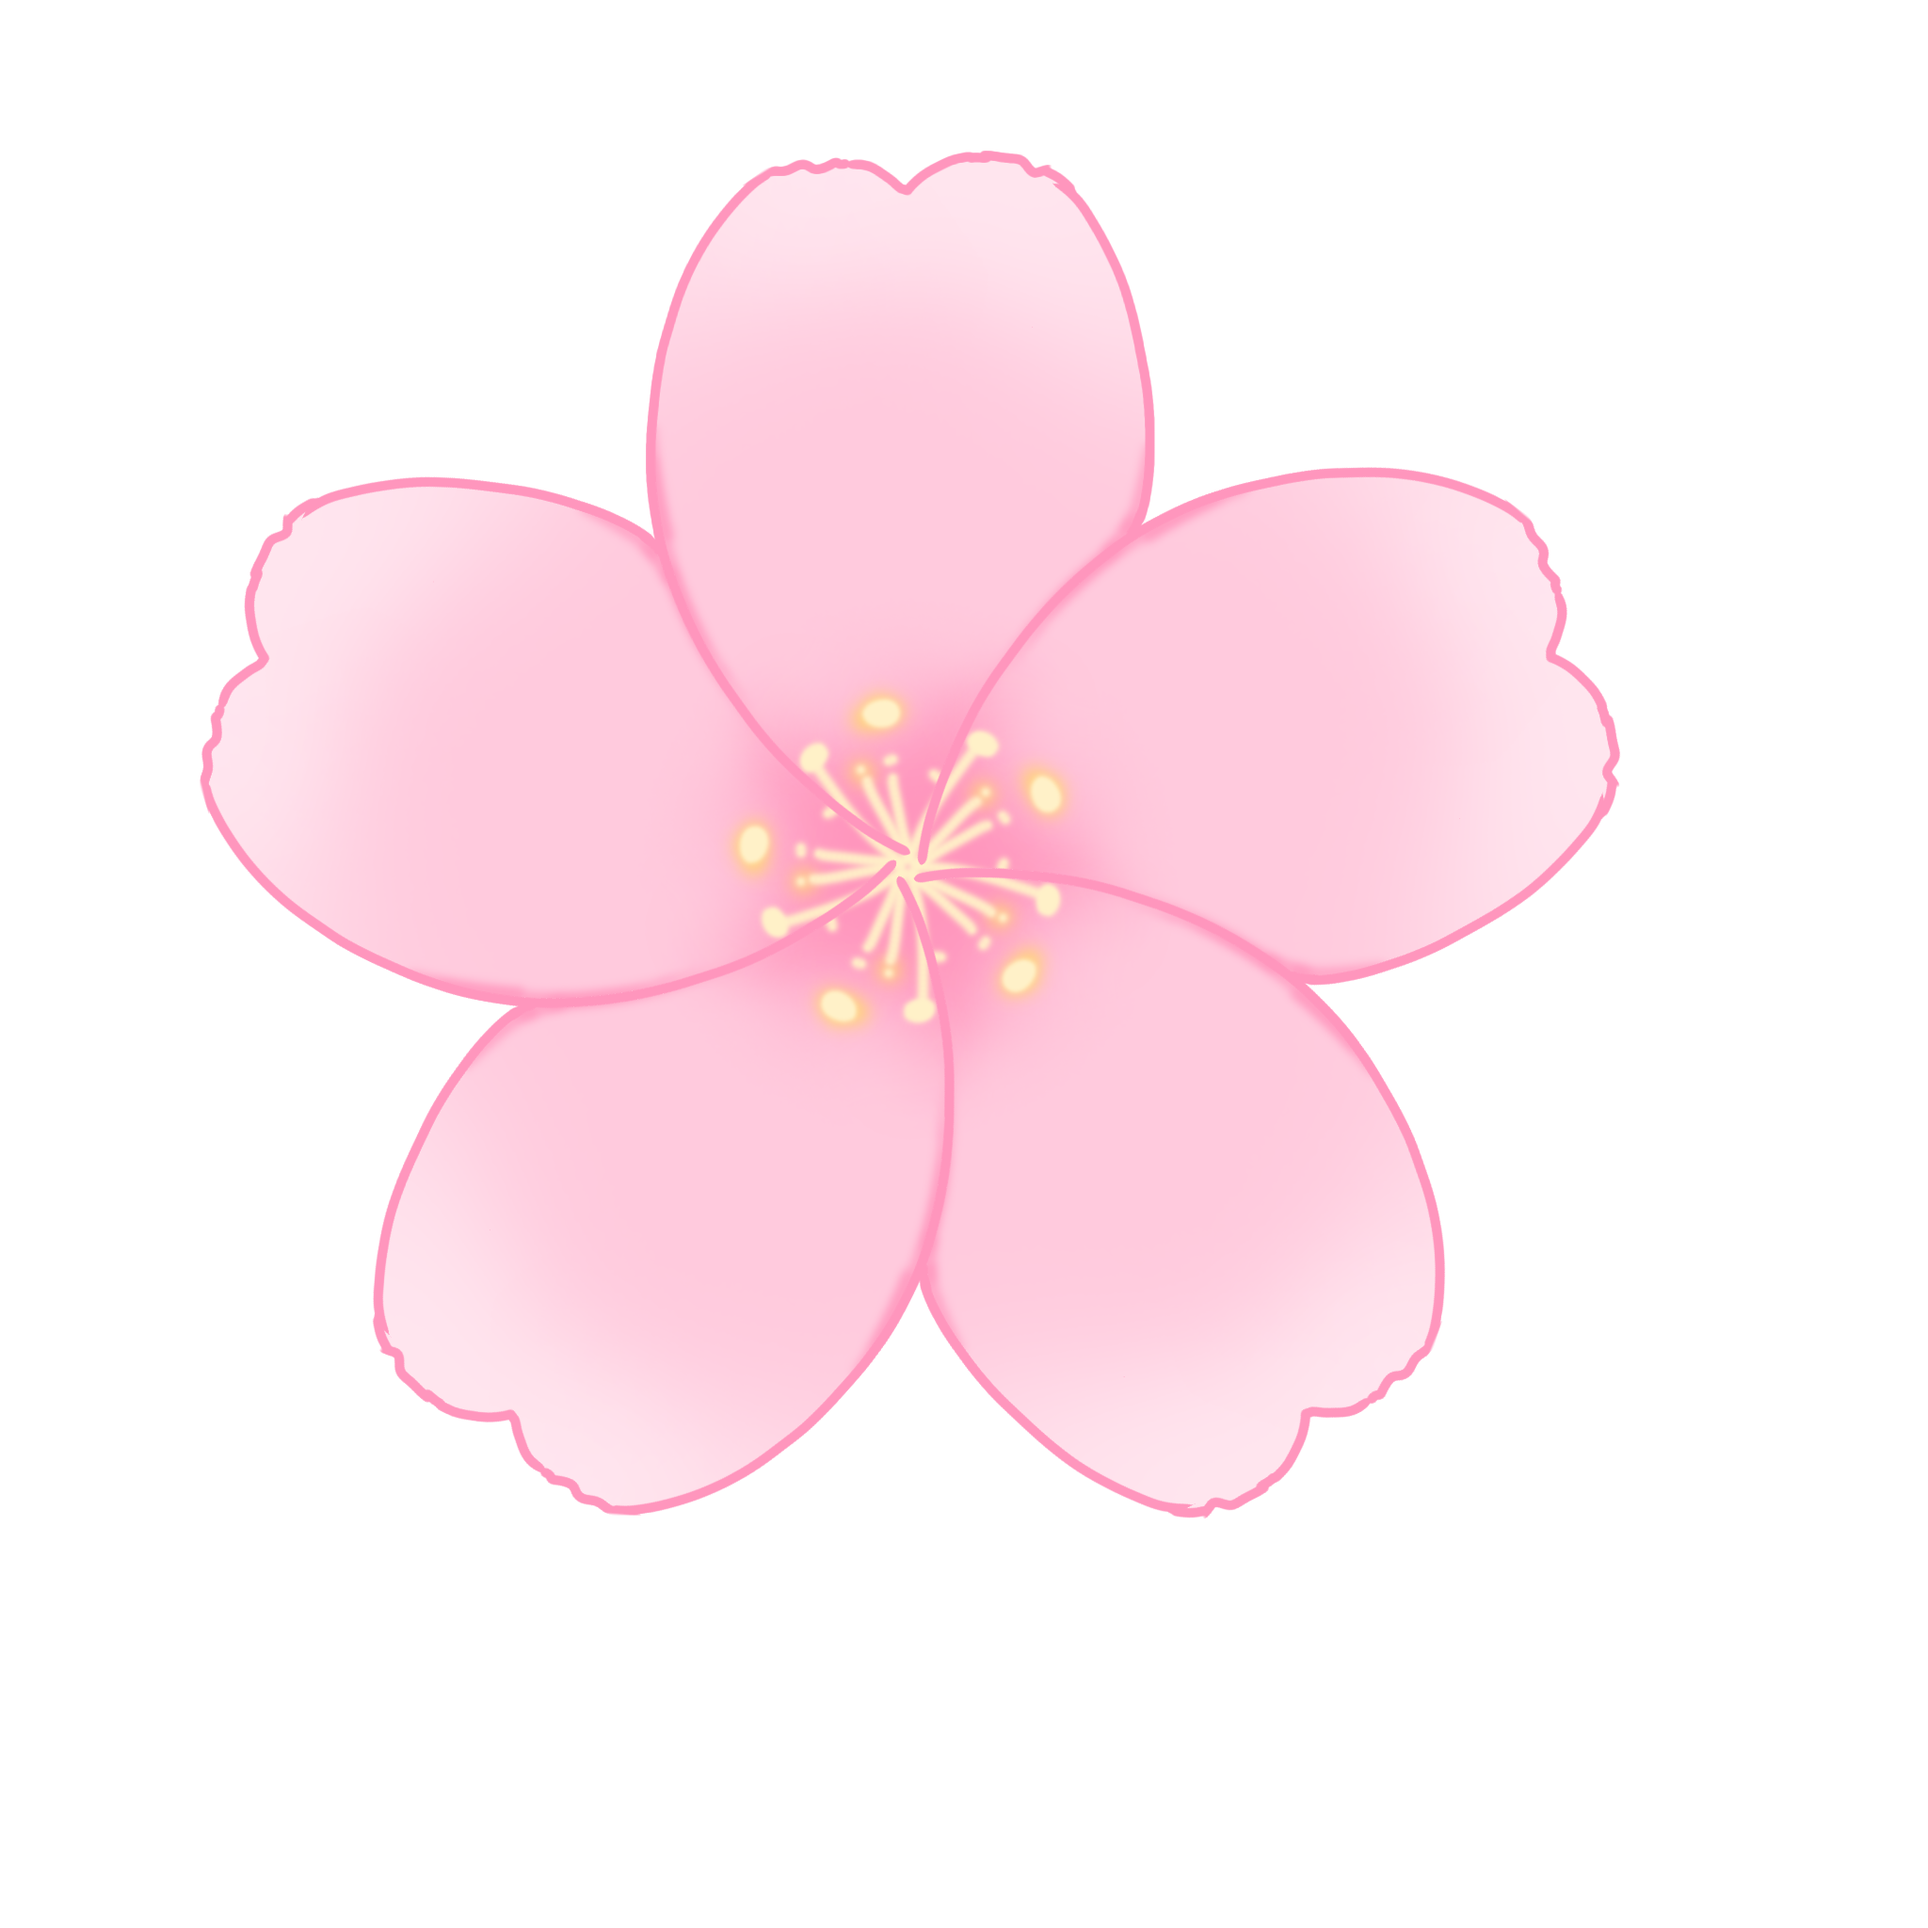
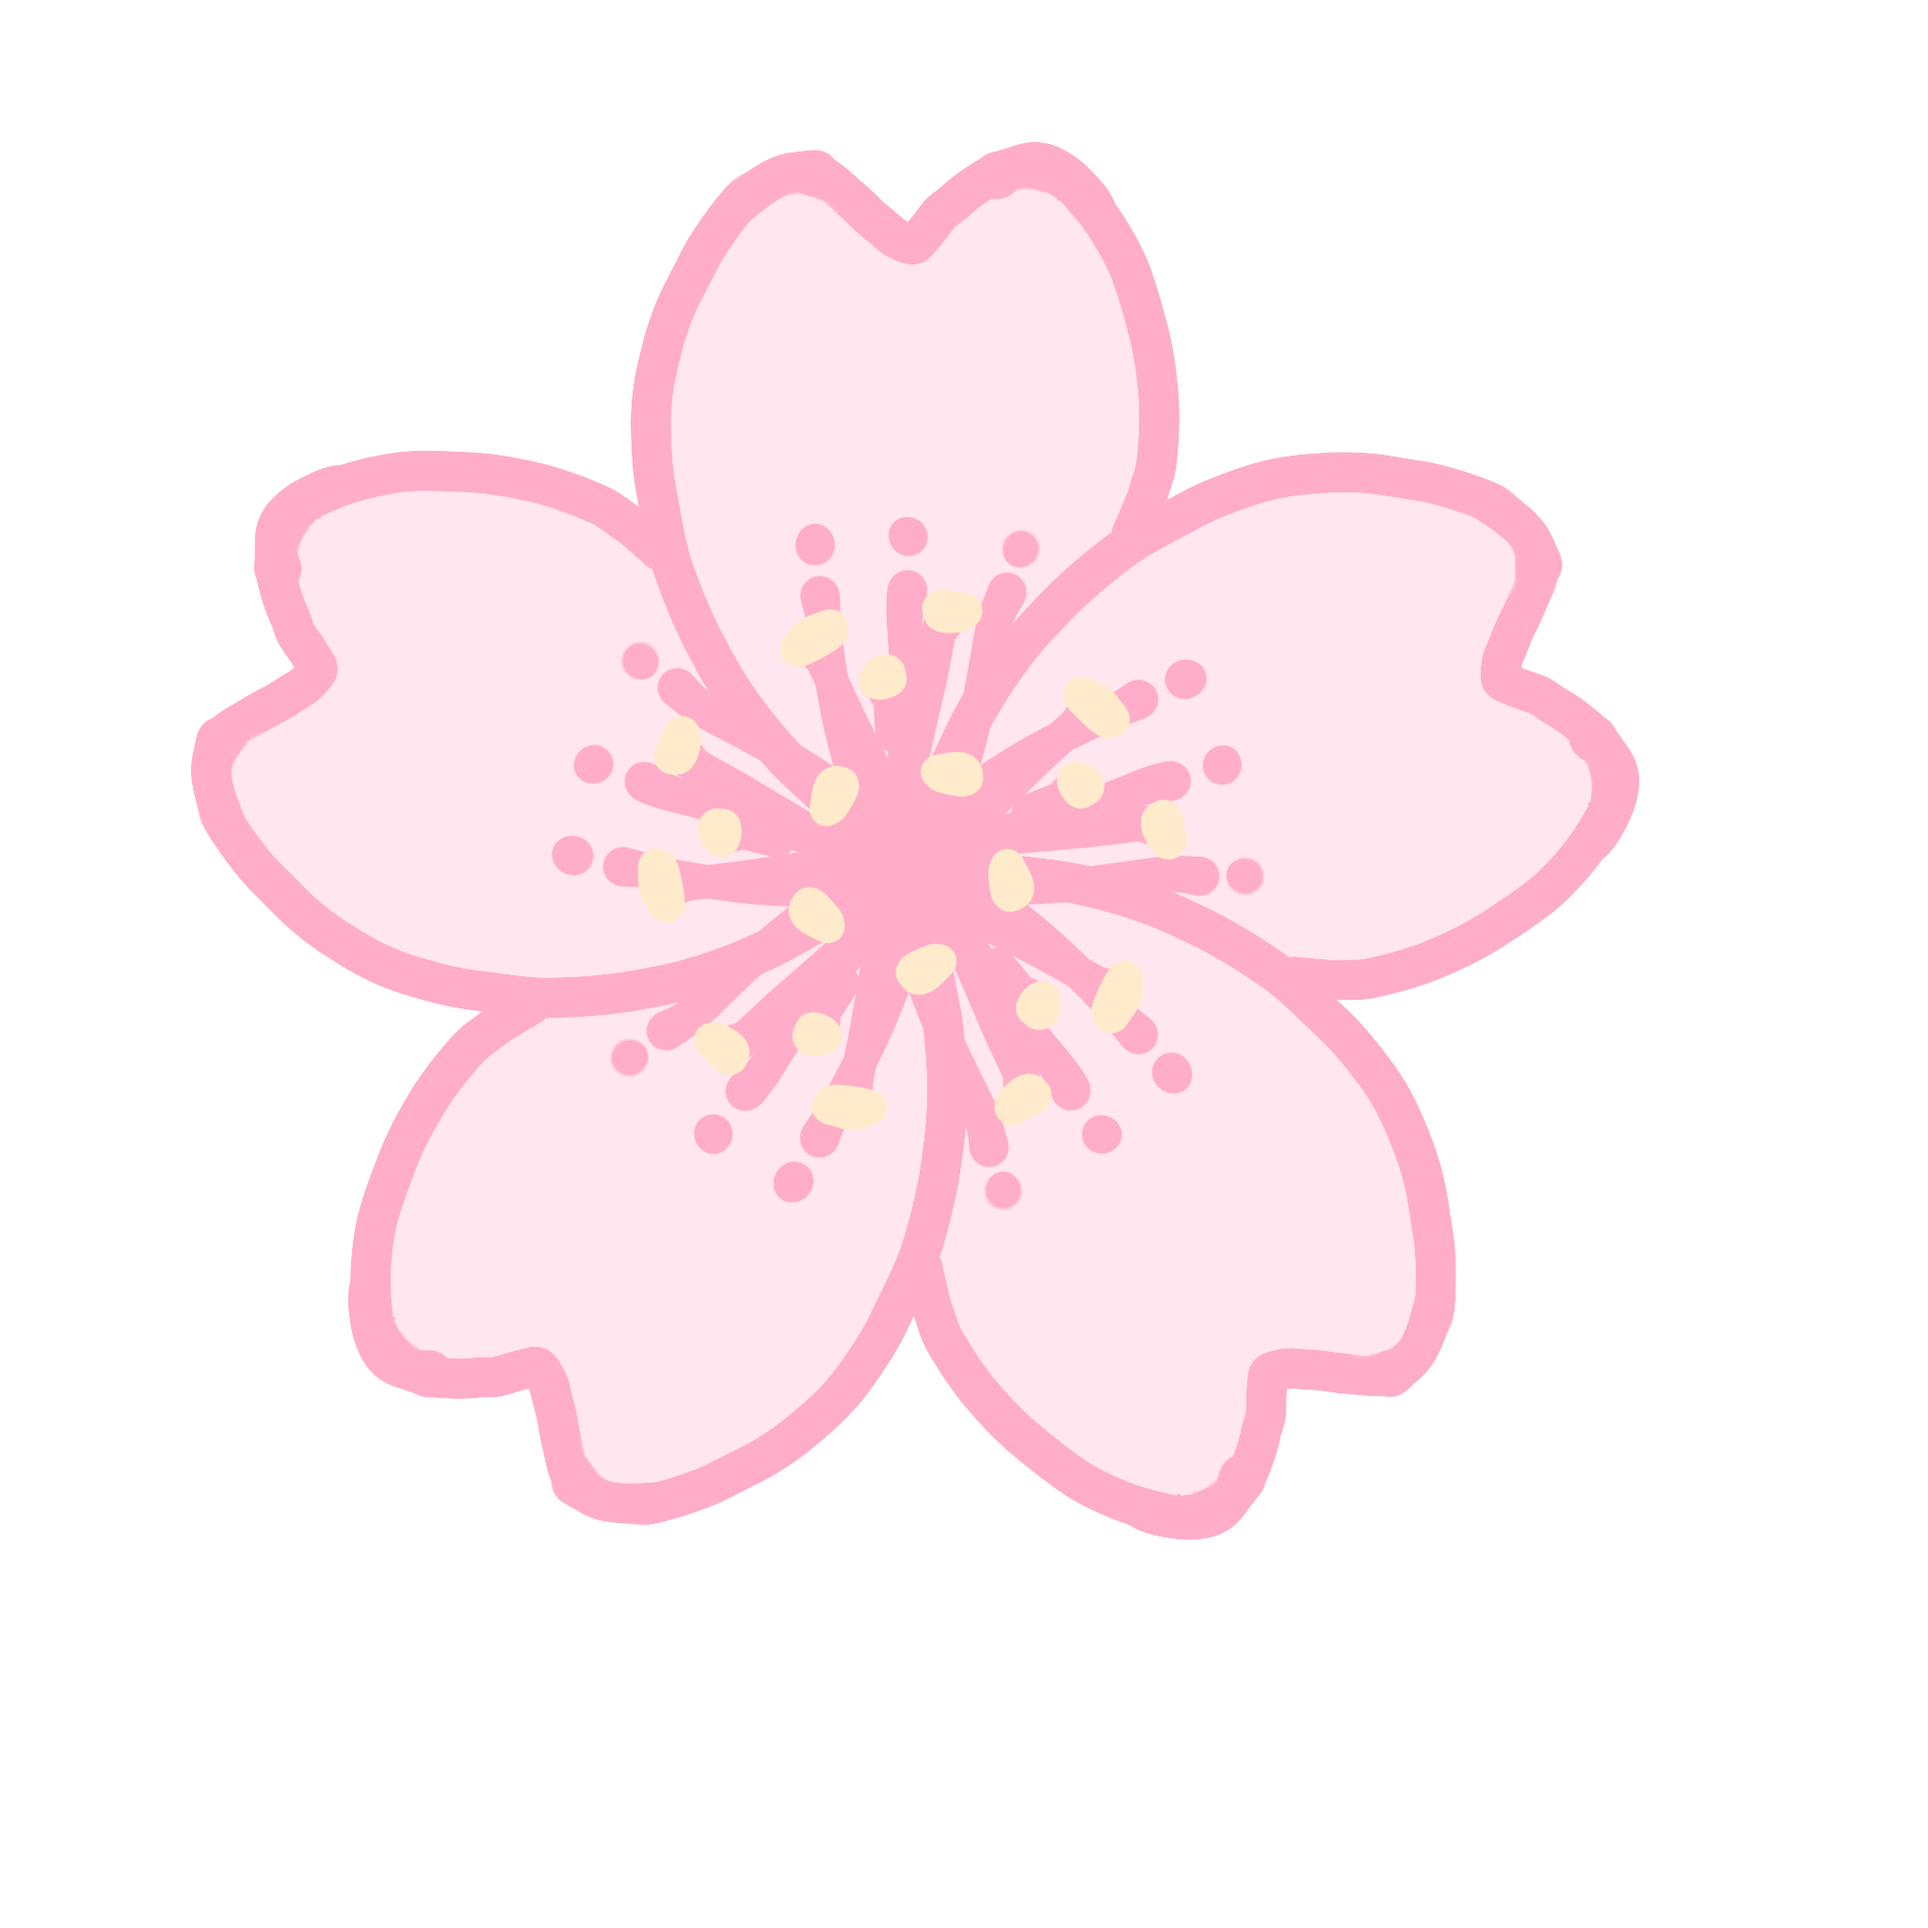
new cherryblossom

Changed region(s): [[0.0938, 0.0625, 0.8438, 0.8125]]

diff --git a/PLATea/src/components/cherry-blossom-border.tsx b/PLATea/src/components/cherry-blossom-border.tsx
@@ -1,8 +1,8 @@
 import React, { useState } from 'react';
 import { Image, View, StyleSheet, LayoutChangeEvent } from 'react-native';
 
-const FLOWER_SCALES = [1.15, 2, 2.8, 1.45, 0.9, 2.35, 1.3];
-const FLOWER_ROTATIONS = [-24, 14, 32, -10, 20, -32, 8];
+const FLOWER_SCALES = [1.15, 2, 2.5, 1.45, 0.9, 2, 1.3];
+const FLOWER_ROTATIONS = [-24, 14, 32, -10, 20, -45, 8];
 
 const CherryBlossom = ({ scale = 1, rotation = 0 }: { scale?: number; rotation?: number }) => (
   <Image
@@ -20,7 +20,7 @@ export const CherryBlossomBorder: React.FC = () => {
     setDimensions({ width, height });
   };
 
-  const iconSizeWithSpacing = 50;
+  const iconSizeWithSpacing = 30;
   const topBottomCount = Math.floor(dimensions.width / iconSizeWithSpacing) || 0;
   const leftRightCount = Math.floor((dimensions.height - iconSizeWithSpacing * 2) / iconSizeWithSpacing) || 0;
 

diff --git a/PLATea/src/app/index.web.tsx b/PLATea/src/app/index.web.tsx
@@ -10,7 +10,7 @@ const MELBOURNE_BOUNDS: Bounds = {
   maxLng: 145.12,
 };
 
-const markerColor = '#397d54';
+const markerColor = '#FFC107';
 
 function getMarkerPosition(tree: Tree) {
   const left = ((tree.longitude - MELBOURNE_BOUNDS.minLng) /
@@ -105,14 +105,14 @@ const styles = {
   },
   marker: {
     position: 'absolute' as const,
-    width: 7,
-    height: 7,
-    marginLeft: -3,
-    marginTop: -3,
-    borderRadius: 4,
+    width: 18,
+    height: 18,
+    marginLeft: -9,
+    marginTop: -9,
+    borderRadius: 9,
+    borderWidth: 2,
     backgroundColor: markerColor,
-    borderWidth: 1,
-    borderColor: '#f4f8e9',
+    borderColor: '#fff8d6',
   },
   loadingOverlay: {
     position: 'absolute' as const,

diff --git a/PLATea/src/app/index.tsx b/PLATea/src/app/index.tsx
@@ -57,6 +57,7 @@ export default function MapScreen() {
           {trees.map((tree, index) => (
             <Marker
               key={`${tree.id}-${index}`}
+              pinColor="#FFC107"
               coordinate={{ latitude: tree.latitude, longitude: tree.longitude }}
               title={tree.commonName ?? 'Unknown tree'}
               description={tree.scientificName ?? undefined}
